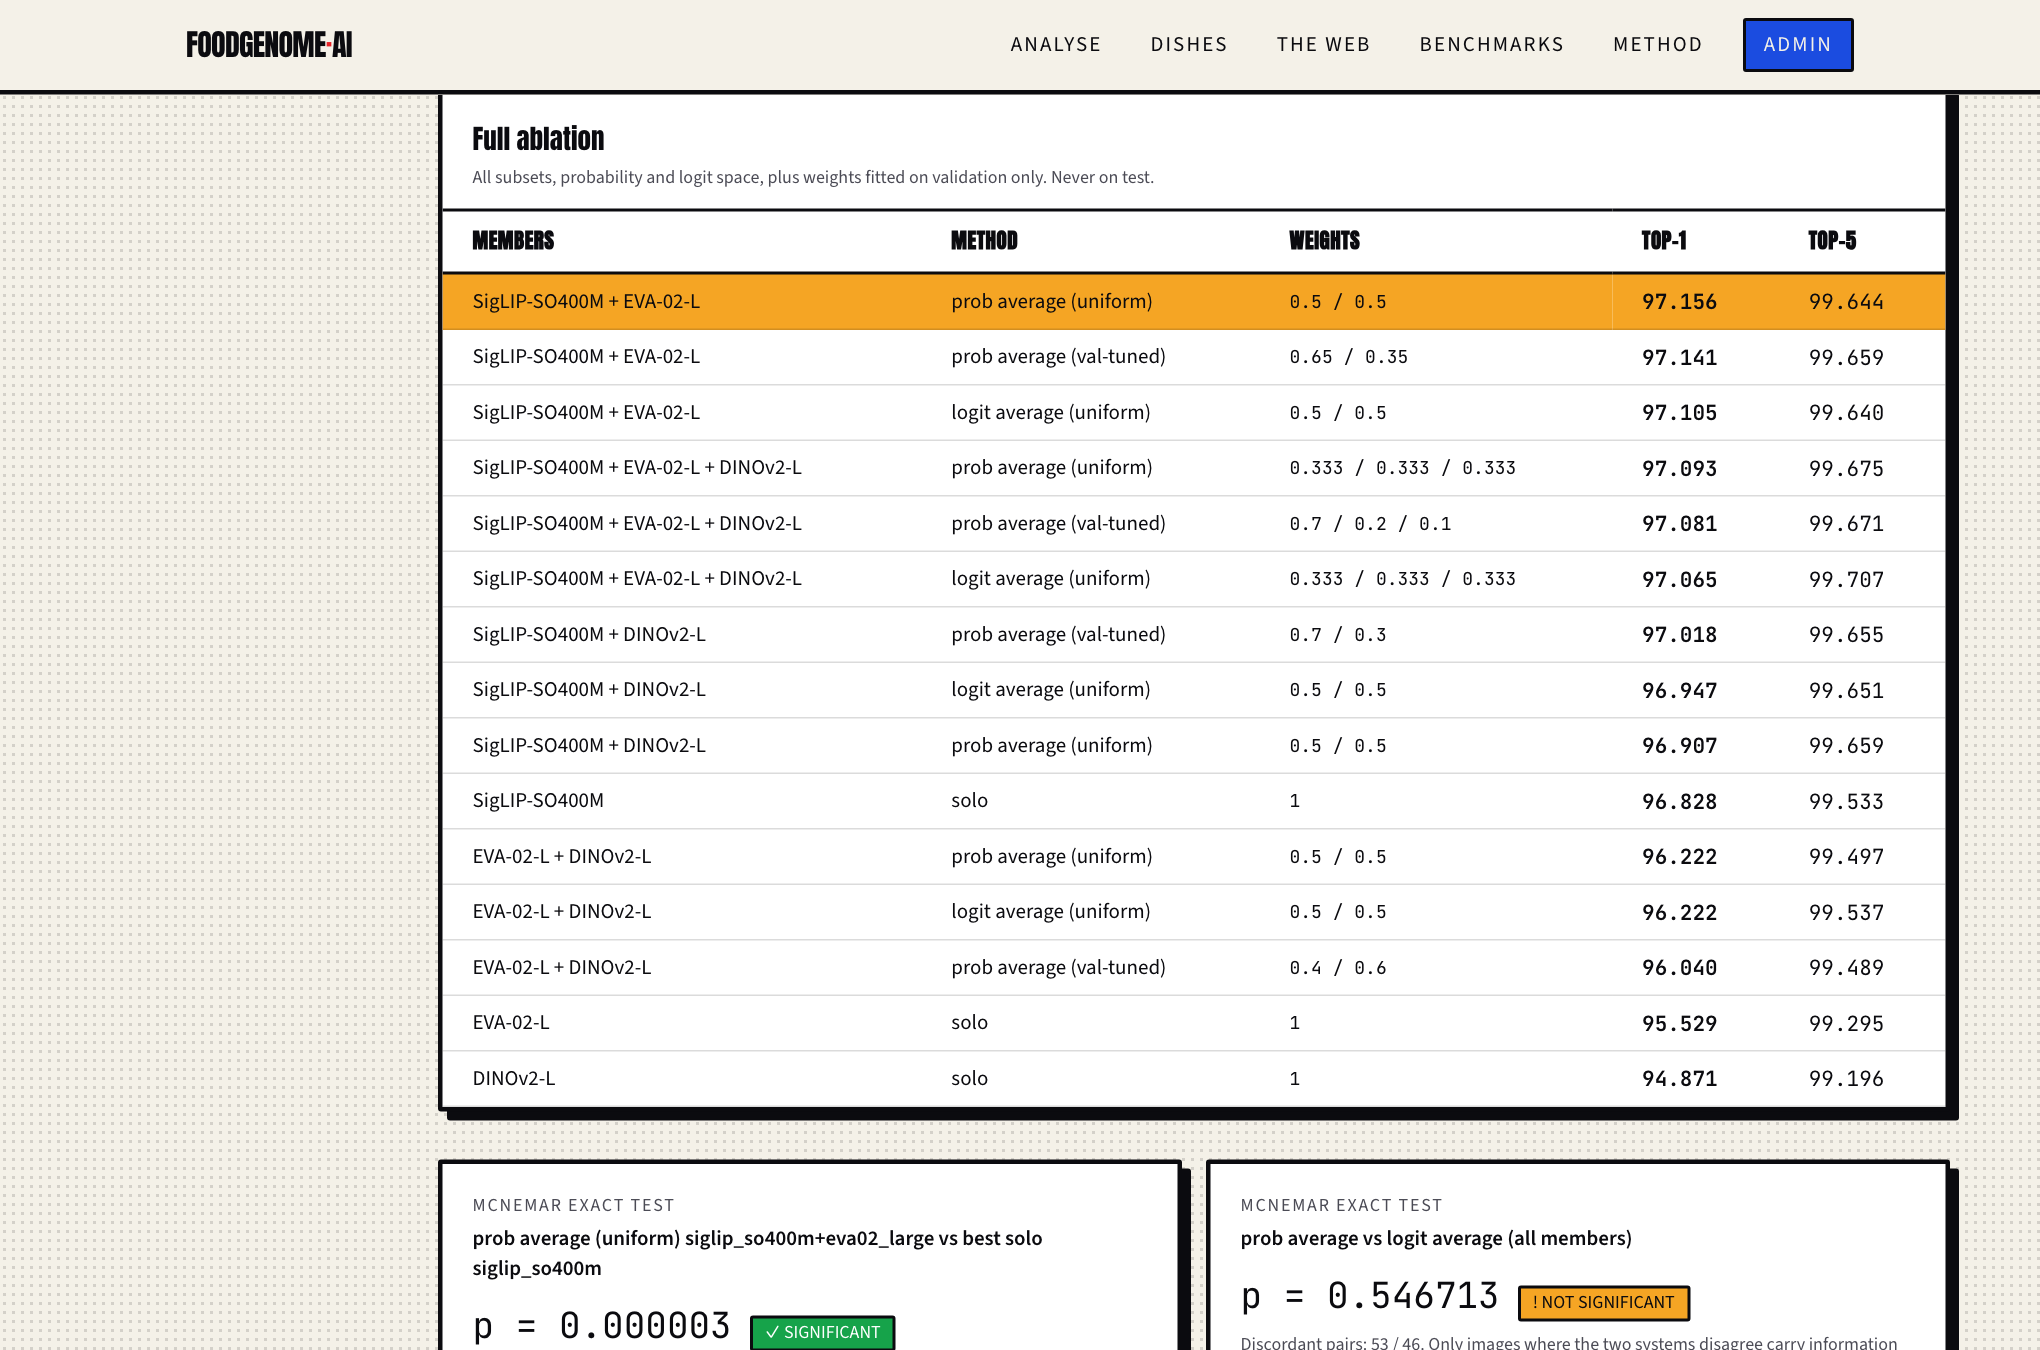
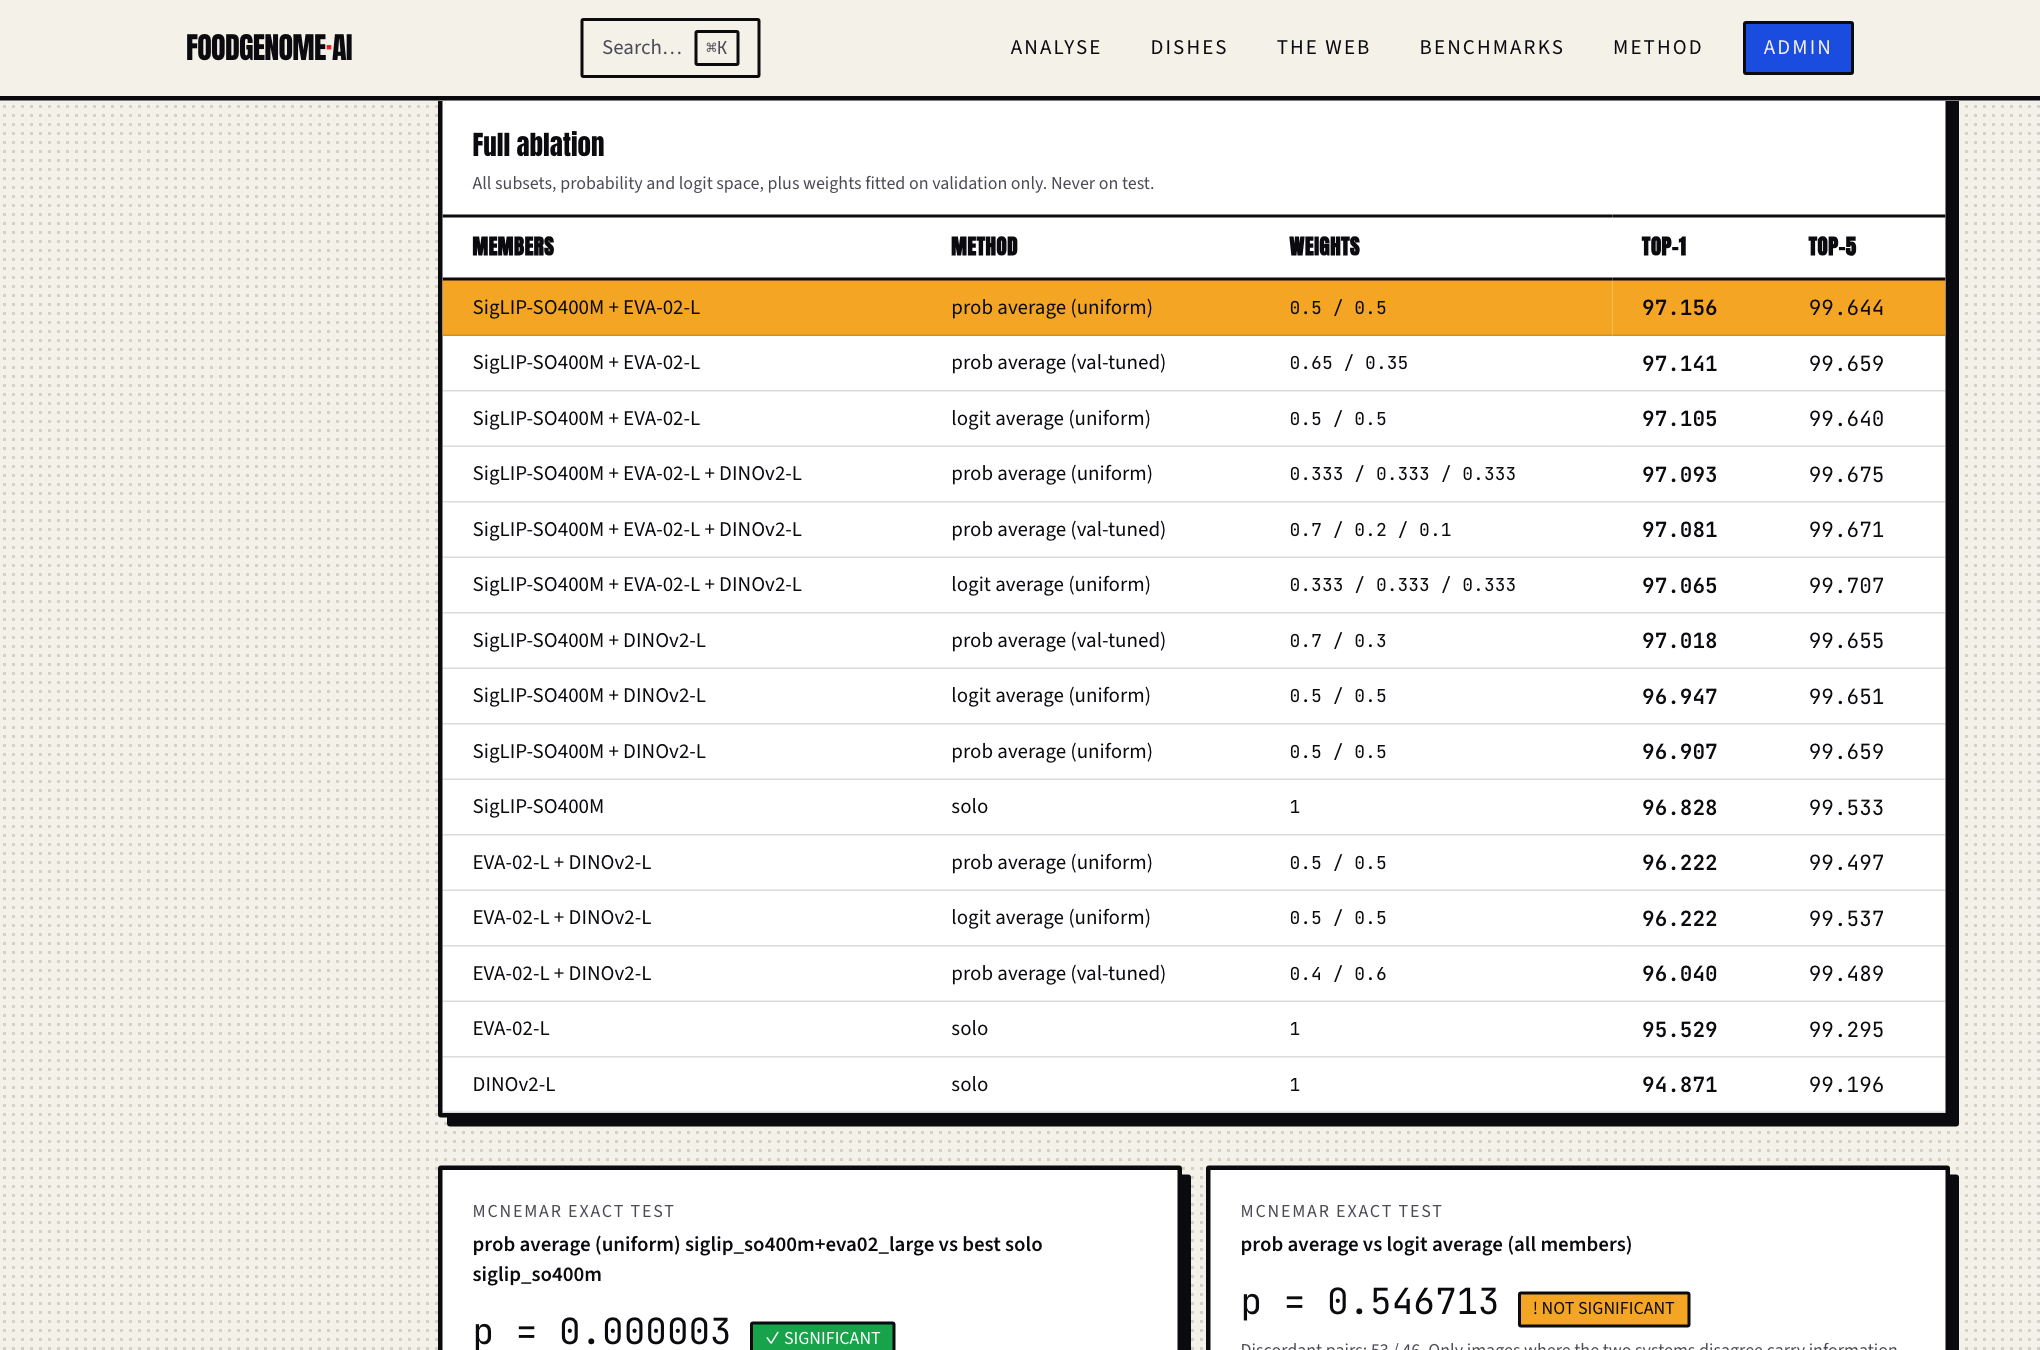
Recapture every screenshot against the current interface
The knowledge-web image still showed the dark theme that was rolled back, and
the rest predated the command palette, so the header differed between shots. All
fourteen are now from one pass over the live build, with the palette documented
alongside the surfaces it searches.

diff --git a/README.md b/README.md
@@ -48,6 +48,12 @@ Ask in natural language. The question is rewritten to name the dish the vision m
 
 The dish → ingredient graph rendered as an actual web: 181 nodes and 323 weighted edges, all derived from real USDA composite recipes. Search by name, click to pin a node, read its neighbours with their gram weights. This answers questions no single document contains — *which dishes contain walnuts* is an inversion of sixty separate ingredient lists.
 
+### Search anything
+
+![Command palette](docs/images/command-palette.png)
+
+`⌘K` from any page. Matching is subsequence-based, so `chkn` finds Chicken Curry — a substring search would not, and a fuzzy-search library would be a dependency for thirty lines of scoring.
+
 ### Browse all 101 dishes
 
 ![Dish browser](docs/images/dishes.png)
